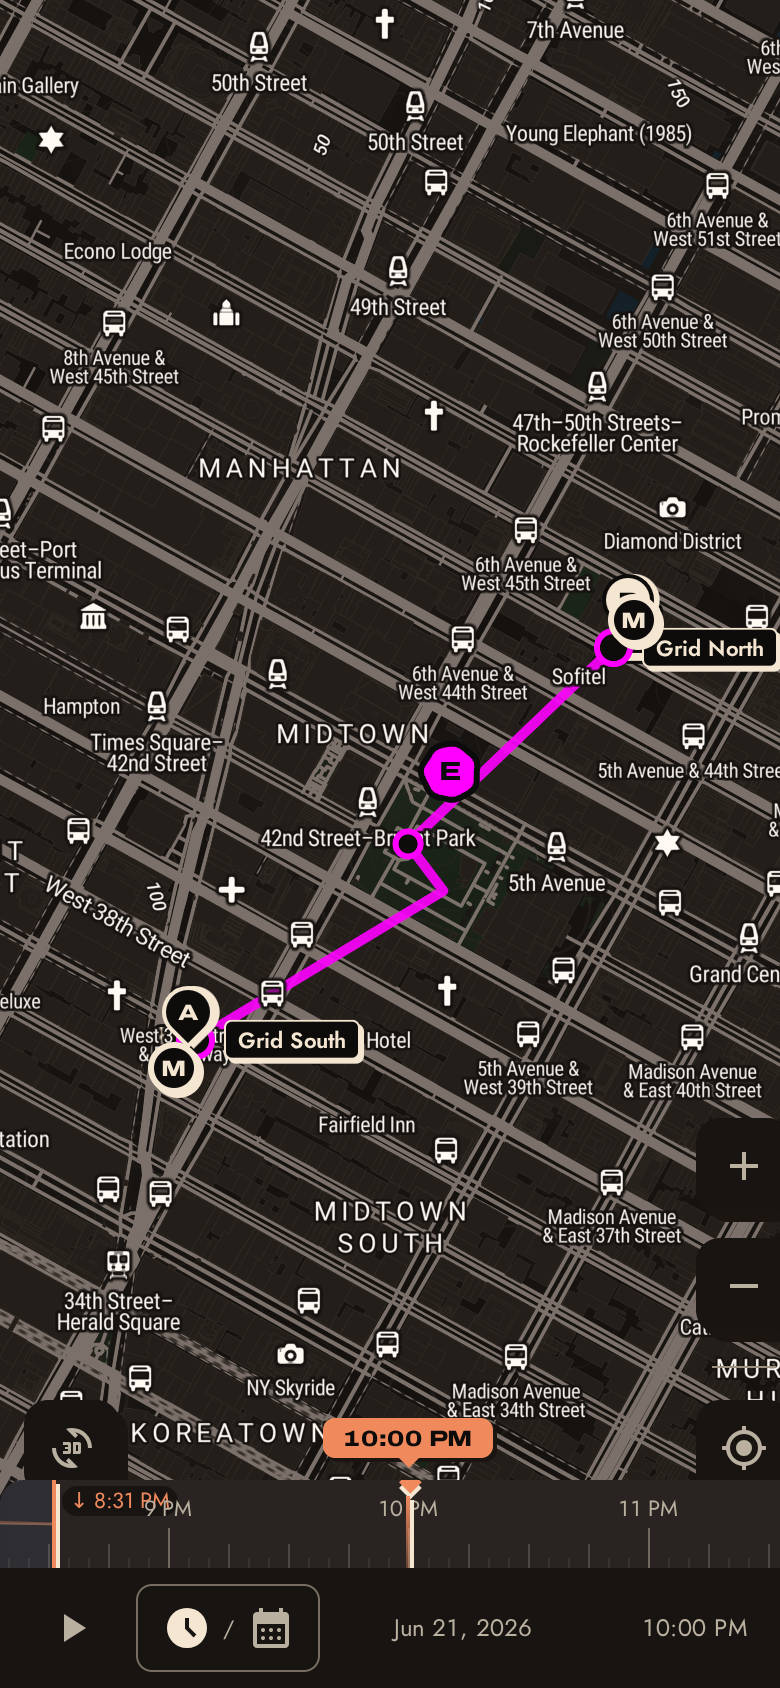
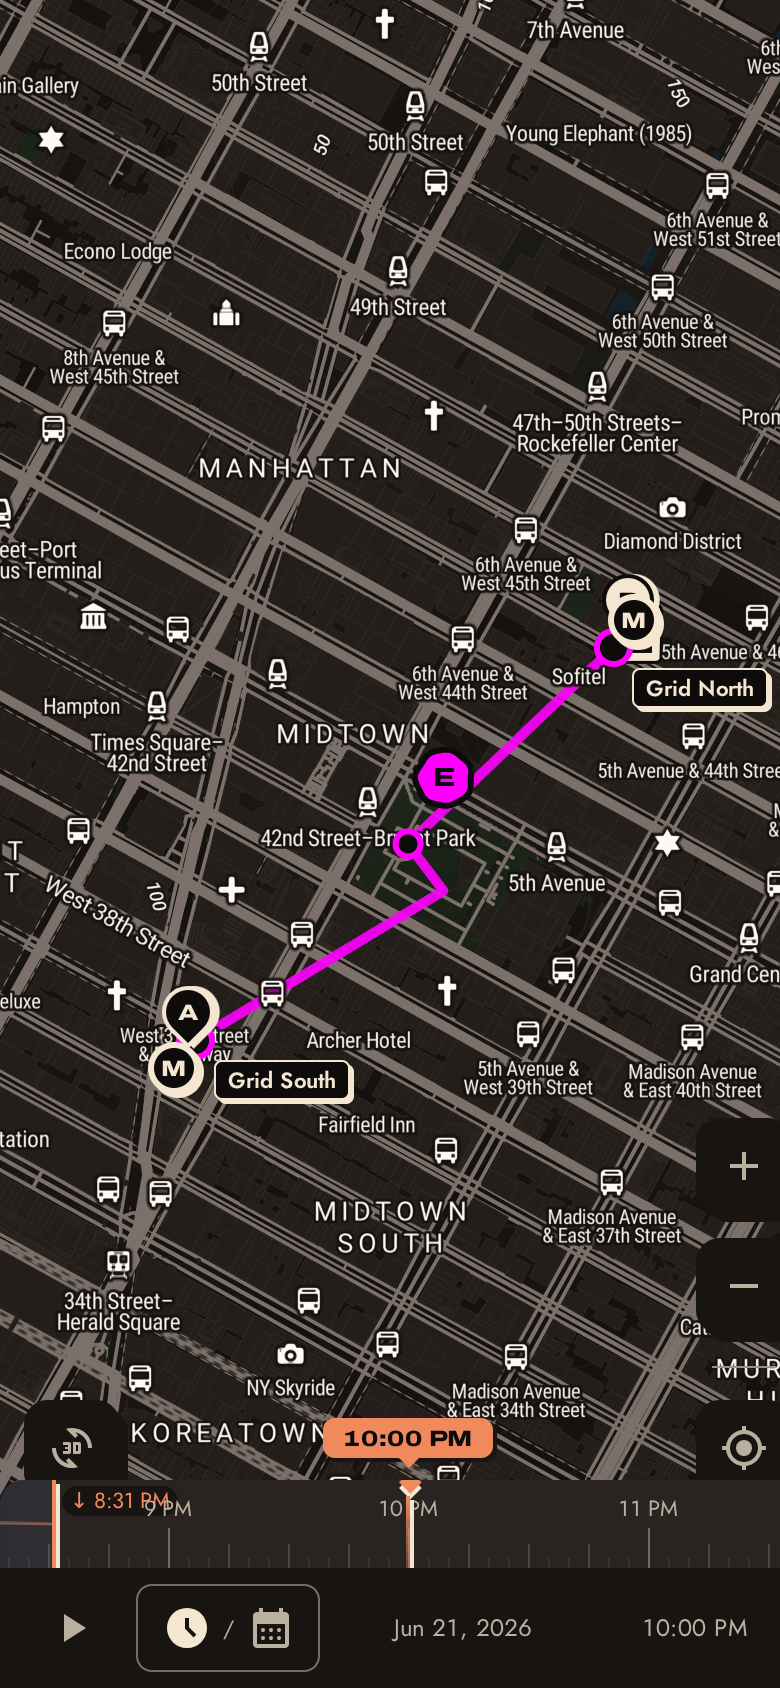
fix(design): #149 verify — names beside the ride clear of entrance pins, no jump on a mid-wobble grab, exact settle off a stop

Changed region(s): [[0.2769, 0.5853, 0.4615, 0.6777], [0.8, 0.3697, 1.0, 0.4313], [0.5231, 0.4313, 0.6154, 0.4929]]

diff --git a/app/components/MapView.tsx b/app/components/MapView.tsx
@@ -1302,6 +1302,26 @@ export default function MapView({
       // DOM markers, so the shadow sampler's canvas readback never sees them.
       // Remembered per ride — its line and end stations — so the same trip
       // recalculated at another time keeps its place, and a new trip starts fresh.
+      // Board and exit names sit beside the ride, never on it: off along its
+      // perpendicular, on the side that points down and right, since entrance pins
+      // grow upward from their doors. Added before the coins so a coin draws above.
+      for (const label of stopLabelRefs.current) label.remove();
+      stopLabelRefs.current = [0, stops.length - 1]
+        .filter((i, n, all) => stops[i] && all.indexOf(i) === n)
+        .map((i) => {
+          const st = stops[i];
+          const next = stops[i === 0 ? 1 : i - 1] ?? st;
+          const a = map.project([st.lon, st.lat]);
+          const b = map.project([next.lon, next.lat]);
+          const len = Math.hypot(b.x - a.x, b.y - a.y) || 1;
+          let [px, py] = [-(b.y - a.y) / len, (b.x - a.x) / len];
+          if (px + py < 0) [px, py] = [-px, -py];
+          const anchor = py > 0.38 ? (px > 0.38 ? "top-left" : px < -0.38 ? "top-right" : "top") : "left";
+          return new maplibregl.Marker({ element: stopLabelElement(st.name), anchor, offset: [px * 14, py * 14] })
+            .setLngLat([st.lon, st.lat])
+            .addTo(map);
+        });
+
       const stopPoints = stops.map((st) => [st.lon, st.lat] as [number, number]);
       lineCoinRefs.current = lineBadgePlacements(polylines).map((placement) => {
         const key = `${placement.line}:${placement.coords[0]}:${placement.coords[placement.coords.length - 1]}`;
@@ -1351,14 +1371,6 @@ export default function MapView({
           properties: { name: s.name, color: s.color, end: s.id === boardId || s.id === exitId },
           geometry: { type: "Point" as const, coordinates: [s.lon, s.lat] },
         }));
-      for (const label of stopLabelRefs.current) label.remove();
-      stopLabelRefs.current = [stops[0], stops.length > 1 ? stops[stops.length - 1] : undefined]
-        .filter((st): st is (typeof stops)[number] => !!st)
-        .map((st) =>
-          new maplibregl.Marker({ element: stopLabelElement(st.name), anchor: "left", offset: [14, 0] })
-            .setLngLat([st.lon, st.lat])
-            .addTo(map),
-        );
       const stopsFC: GeoJSON.FeatureCollection = { type: "FeatureCollection", features: stopFeatures };
       if (map.getSource("train-route-stops")) {
         (map.getSource("train-route-stops") as maplibregl.GeoJSONSource).setData(stopsFC);

diff --git a/app/components/lineCoinMarker.ts b/app/components/lineCoinMarker.ts
@@ -71,6 +71,8 @@ export function attachLineCoin(
   let offV = { x: 0, y: 0 };
   let frame: number | null = null;
   let intro: number | undefined;
+  // Where a slide off a stop is headed; reached exactly, not crept up on.
+  let settleTo: number | null = null;
 
   const marker = new maplibregl.Marker({ element, anchor: "center", draggable: true })
     .setLngLat(pointAtDistance(coords, s))
@@ -120,10 +122,15 @@ export function attachLineCoin(
       off = { x: 0, y: 0 };
       offV = { x: 0, y: 0 };
       v = 0;
+      if (settleTo !== null) {
+        s = settleTo;
+        settleTo = null;
+      }
       place();
       const clear = restingGap(s, stopsAlong, length, STOP_CLEARANCE_PX * mpp());
       if (clear !== null) {
         // A coast covers v0 / friction in all, so aim a short slide at the clear point.
+        settleTo = clear;
         v = (clear - s) * COIN_FRICTION;
         frame = requestAnimationFrame(tick);
         return;
@@ -136,12 +143,17 @@ export function attachLineCoin(
 
   // Along-ride velocity while dragging, smoothed as the time slider smooths its own.
   let lastMove = 0;
+  // maplibre measures a grab from the marker's spot on the line, not from where a
+  // wobbling coin is drawn; carrying the offset at the grab keeps it under the finger.
+  let grabOff = { x: 0, y: 0 };
   marker.on("dragstart", () => {
     // A grab ends any coast or wobble, and the first-render glide if it has not begun.
     window.clearTimeout(intro);
     stop();
     v = 0;
+    settleTo = null;
     offV = { x: 0, y: 0 };
+    grabOff = { ...off };
     lastMove = performance.now();
   });
   marker.on("drag", () => {
@@ -150,7 +162,8 @@ export function attachLineCoin(
       return [p.x, p.y] as [number, number];
     });
     // maplibre has just moved the marker to follow the pointer; read where that is.
-    const here = map.project(marker.getLngLat());
+    const raw = map.project(marker.getLngLat());
+    const here = { x: raw.x + grabOff.x, y: raw.y + grabOff.y };
     const snap = snapToPath(path, [here.x, here.y]);
     if (!snap) return;
     const next = distanceAt(coords, snap.index, snap.t);

diff --git a/docs/tracks/TRACK_R.md b/docs/tracks/TRACK_R.md
@@ -43,7 +43,9 @@ inspiration; the public mirror publishes everything here.
   rests over a stop slides just clear (`restingGap`, `stopDistances`), so no stop is hidden.
   Stops now count along the ride: `TrainDrawData.stops` carries each stop's line colour,
   rings drawn in it (removed from `basemapTheme`'s re-themed roles, like the lines), board and
-  exit a size up and named on map-ink plates (`mapPins.stopLabelElement`). The terminus is
+  exit a size up and named on map-ink plates (`mapPins.stopLabelElement`) set off the ride's
+  perpendicular on the down-right side (entrance pins grow upward). A grab mid-wobble keeps
+  the coin under the finger; a slide off a stop lands exactly. The terminus is
   deliberately not shown on the map (it reads as the rider's destination). The transit smoke
   test drags the coin ~56px off the line, asserts by canvas readback that it slid and still
   sits on the track, and asserts the board/exit names.
